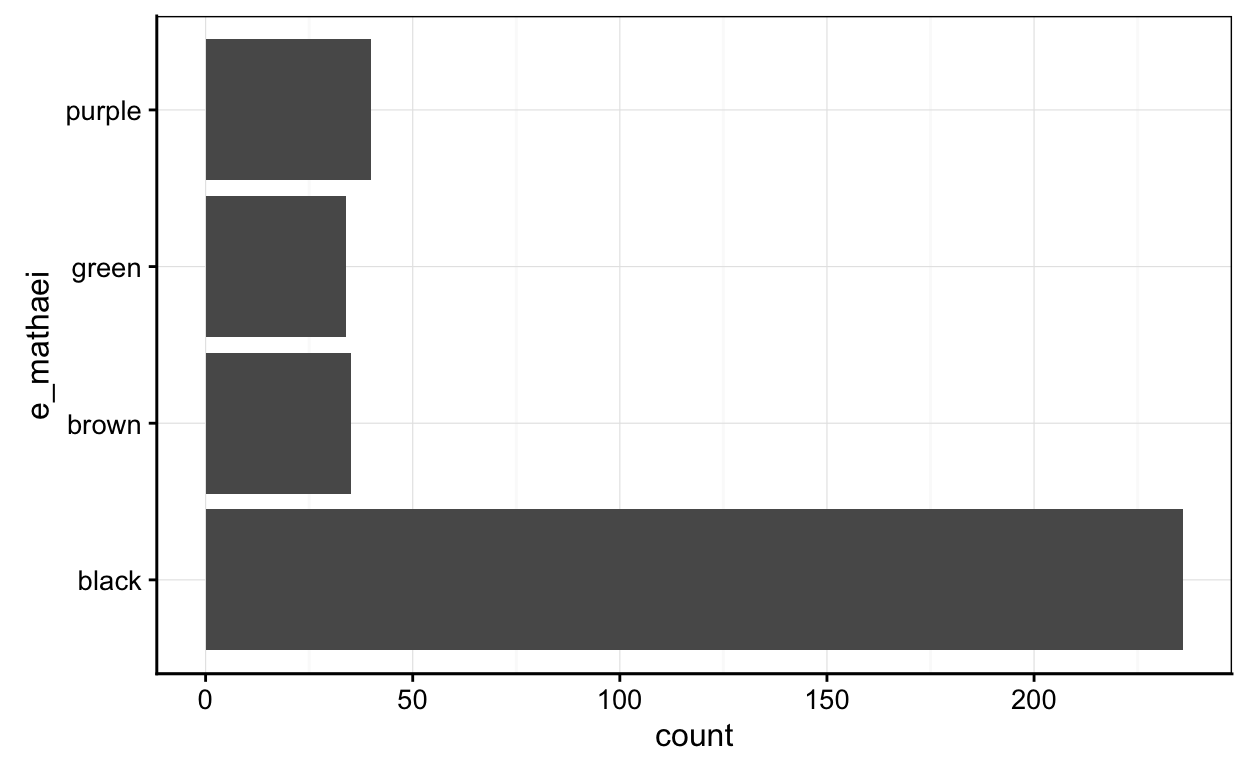
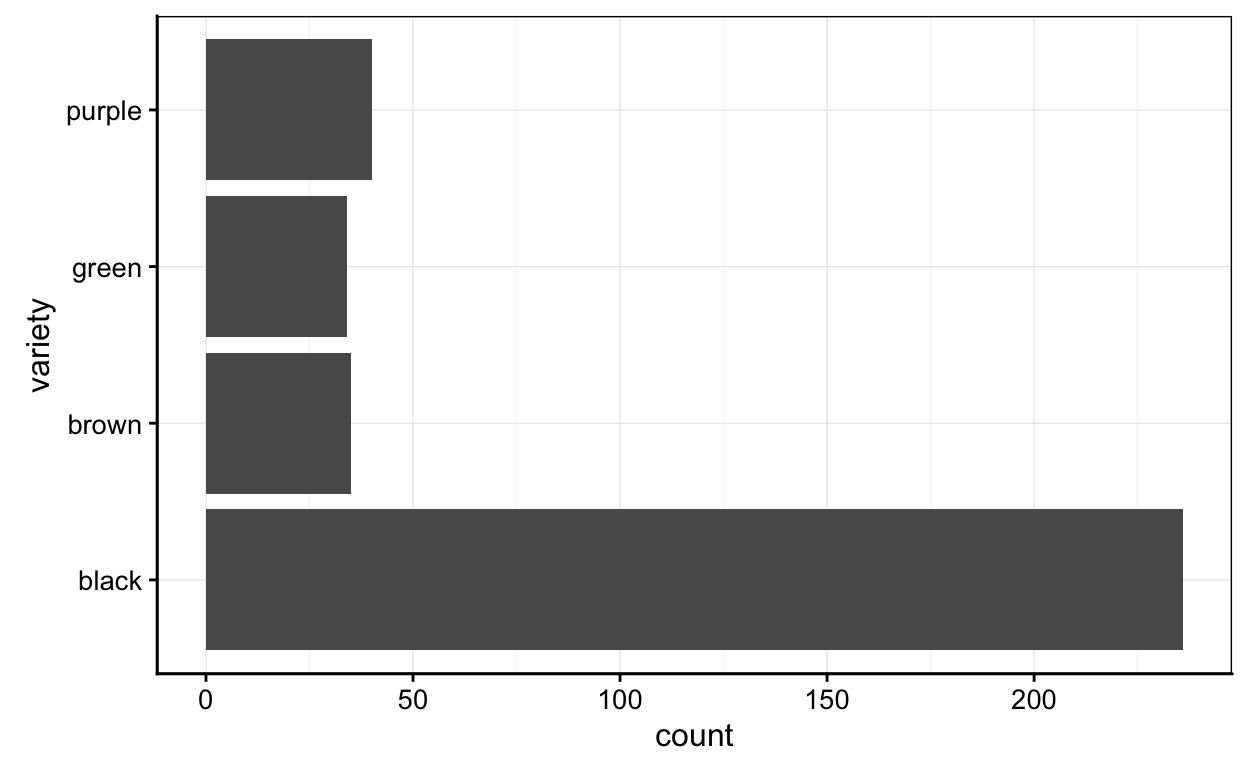
sdd1.04a and more robust record_sdd() function

diff --git a/inst/tutorials/04a_test/test.html b/inst/tutorials/04a_test/test.html
@@ -85,31 +85,31 @@ Réalisé par le service d'Écologie numérique des Milieux aquatiques, Universi
 </div>
 <div id="section-visualisation-graphique" class="section level2">
 <h2>Visualisation graphique</h2>
-<p>La visualisation graphique est le point de base dans l’analyse de données.</p>
+<p>La visualisation graphique est le point de départ dans l’analyse de données.</p>
 <div id="section-denombrement-doursins-perforant-dans-la-baie-de-tulear-madagascar" class="section level3">
 <h3>Dénombrement d’oursins perforant dans la baie de Tuléar (Madagascar)</h3>
-<p>La jeu de données nommé echinoderma est un recensement de différentes variétés d’ <em>Echinoderma mathaei</em>.</p>
-<pre class="r"><code>echinoderma &lt;- data_frame(id = 1:345, e_mathaei = c(rep(&quot;black&quot;, times = 236), 
-                                                    rep(&quot;purple&quot; , times = 40), 
-                                                    rep(&quot;brown&quot;, times = 35), 
-                                                    rep(&quot;green&quot;, times = 34)))
-# Visualisation partielle du tableau de données
-head(echinoderma[c(200, 250, 300, 340), ])</code></pre>
+<p>La jeu de données nommé <code>e_mathaei</code> est un recensement de différentes variétés de l’oursin <em>Echinometra mathaei</em>.</p>
+<pre class="r"><code>e_mathaei &lt;- data_frame(id = 1:345, variety = c(rep(&quot;black&quot;,  times = 236), 
+                                                rep(&quot;purple&quot;, times = 40), 
+                                                rep(&quot;brown&quot;,  times = 35), 
+                                                rep(&quot;green&quot;,  times = 34)))
+# Visualisation de quelques lignes du tableau de données
+e_mathaei[c(200, 250, 300, 340), ]</code></pre>
 <div data-pagedtable="false">
 <script data-pagedtable-source type="application/json">
-{"columns":[{"label":["id"],"name":[1],"type":["int"],"align":["right"]},{"label":["e_mathaei"],"name":[2],"type":["chr"],"align":["left"]}],"data":[{"1":"200","2":"black"},{"1":"250","2":"purple"},{"1":"300","2":"brown"},{"1":"340","2":"green"}],"options":{"columns":{"min":{},"max":[10]},"rows":{"min":[10],"max":[10]},"pages":{}}}
+{"columns":[{"label":["id"],"name":[1],"type":["int"],"align":["right"]},{"label":["variety"],"name":[2],"type":["chr"],"align":["left"]}],"data":[{"1":"200","2":"black"},{"1":"250","2":"purple"},{"1":"300","2":"brown"},{"1":"340","2":"green"}],"options":{"columns":{"min":{},"max":[10]},"rows":{"min":[10],"max":[10]},"pages":{}}}
   </script>
 </div>
 <p>Les scientifiques produisent le graphique suivant :</p>
 <p><img src="test_files/figure-html/unnamed-chunk-3-1.png" width="624" /></p>
 <p>Reproduisez le graphique ci-dessus.</p>
 <p><strong>Nom du jeu de données et des variables importantes</strong></p>
-<pre><code>[1] &quot;echinoderma&quot; &quot;e_mathaei&quot;  </code></pre>
+<pre><code>[1] &quot;variety&quot;   &quot;e_mathaei&quot;</code></pre>
 <div class="tutorial-exercise" data-label="bar1" data-caption="Code R" data-completion="1" data-diagnostics="1" data-startover="1" data-lines="0">
 <script type="application/json" data-opts-chunk="1">{"fig.width":6.5,"fig.height":4,"fig.retina":2,"fig.align":"default","fig.keep":"high","fig.show":"asis","out.width":624,"warning":true,"error":false,"message":true,"exercise.df_print":"paged","exercise.timelimit":60,"exercise.checker":["function (label, user_code, solution_code, check_code, envir_result, ","    evaluate_result, ...) ","{","    list(message = \"Your answer is recorded!\", correct = TRUE, ","        type = \"info\", location = \"append\")","}"]}</script>
 </div>
 <div class="tutorial-exercise-support" data-label="bar1-solution" data-caption="Code R" data-completion="1" data-diagnostics="1" data-startover="1" data-lines="0">
-<pre class="text"><code>chart(echinoderma, formula = ~ e_mathaei) +
+<pre class="text"><code>chart(e_mathaei, formula = ~ variety) +
   geom_bar() +
   coord_flip()</code></pre>
 </div>
@@ -120,42 +120,42 @@ head(echinoderma[c(200, 250, 300, 340), ])</code></pre>
 <p><img src="test_files/figure-html/unnamed-chunk-5-1.png" width="624" /></p>
 <p>Reproduisez ce graphique</p>
 <p><strong>Nom du jeu de données et des variables importantes</strong></p>
-<pre><code>[1] &quot;e_mathaei&quot;   &quot;echinoderma&quot;</code></pre>
+<pre><code>[1] &quot;e_mathaei&quot; &quot;variety&quot;  </code></pre>
 <div class="tutorial-exercise" data-label="pie1" data-caption="Code R" data-completion="1" data-diagnostics="1" data-startover="1" data-lines="0">
 <script type="application/json" data-opts-chunk="1">{"fig.width":6.5,"fig.height":4,"fig.retina":2,"fig.align":"default","fig.keep":"high","fig.show":"asis","out.width":624,"warning":true,"error":false,"message":true,"exercise.df_print":"paged","exercise.timelimit":60,"exercise.checker":["function (label, user_code, solution_code, check_code, envir_result, ","    evaluate_result, ...) ","{","    list(message = \"Your answer is recorded!\", correct = TRUE, ","        type = \"info\", location = \"append\")","}"]}</script>
 </div>
 <div class="tutorial-exercise-support" data-label="pie1-solution" data-caption="Code R" data-completion="1" data-diagnostics="1" data-startover="1" data-lines="0">
-<pre class="text"><code>chart(data = echinoderma, ~ factor(0) %fill=% e_mathaei) +
+<pre class="text"><code>chart(data = e_mathaei, ~ factor(0) %fill=% variety) +
   geom_bar(width = 1) + 
   coord_polar(&quot;y&quot;, start = 0) +
   theme_void() +
   scale_fill_viridis_d() +
-  labs( fill = expression(italic(&quot;Echinoderma mathaei&quot;)))</code></pre>
+  labs(fill = &quot;Variety&quot;)</code></pre>
 </div>
 <div class="tutorial-exercise-support" data-label="pie1-check" data-caption="Code R" data-completion="1" data-diagnostics="1" data-startover="1" data-lines="0">
 <pre class="text"><code># Not yet...</code></pre>
 </div>
-<p>Les chercheurs souhaitent en plus générer un graphique entierement en français.</p>
+<p>Les chercheurs souhaitent en plus générer un graphique entièrement en français.</p>
 <p><img src="test_files/figure-html/unnamed-chunk-7-1.png" width="624" /></p>
-<p>Reproduisez ce graphique</p>
+<p>Reproduisez ce graphique.</p>
 <p><strong>Nom du jeu de données et des variables importantes</strong></p>
-<pre><code>[1] &quot;echinoderma&quot; &quot;e_mathaei&quot;  </code></pre>
+<pre><code>[1] &quot;variety&quot;   &quot;e_mathaei&quot;</code></pre>
 <div class="tutorial-exercise" data-label="bar2" data-caption="Code R" data-completion="1" data-diagnostics="1" data-startover="1" data-lines="0">
 <script type="application/json" data-opts-chunk="1">{"fig.width":6.5,"fig.height":4,"fig.retina":2,"fig.align":"default","fig.keep":"high","fig.show":"asis","out.width":624,"warning":true,"error":false,"message":true,"exercise.df_print":"paged","exercise.timelimit":60,"exercise.checker":["function (label, user_code, solution_code, check_code, envir_result, ","    evaluate_result, ...) ","{","    list(message = \"Your answer is recorded!\", correct = TRUE, ","        type = \"info\", location = \"append\")","}"]}</script>
 </div>
 <div class="tutorial-exercise-support" data-label="bar2-solution" data-caption="Code R" data-completion="1" data-diagnostics="1" data-startover="1" data-lines="0">
-<pre class="text"><code>echinoderma$e_mathaei &lt;- factor(echinoderma$e_mathaei, levels = c(&quot;black&quot;, &quot;brown&quot;, &quot;green&quot;, &quot;purple&quot;), labels = c(&quot;Noir&quot;, &quot;Brun&quot;, &quot;Vert&quot;, &quot;Mauve&quot;))
+<pre class="text"><code>e_mathaei$variety &lt;- factor(e_mathaei$variety, levels = c(&quot;black&quot;, &quot;brown&quot;, &quot;green&quot;, &quot;purple&quot;), labels = c(&quot;Noir&quot;, &quot;Brun&quot;, &quot;Vert&quot;, &quot;Mauve&quot;))
 
-chart(echinoderma, formula = ~ e_mathaei) +
+chart(e_mathaei, formula = ~ variety) +
   geom_bar() +
-  labs(x = expression(italic(&quot;Echinoderma mathaei&quot;)), y  = &quot;Dénombrement&quot;)</code></pre>
+  labs(x = &quot;Variété&quot;, y  = &quot;Dénombrement&quot;)</code></pre>
 </div>
 <div class="tutorial-exercise-support" data-label="bar2-check" data-caption="Code R" data-completion="1" data-diagnostics="1" data-startover="1" data-lines="0">
 <pre class="text"><code># Not yet...</code></pre>
 </div>
 </div>
-<div id="section-biometrie-de-crabe" class="section level3">
-<h3>Biométrie de crabe</h3>
+<div id="section-biometrie-de-crabes" class="section level3">
+<h3>Biométrie de crabes</h3>
 <p>Des scientifiques étudient la biométrie de <em>Leptograpsus variegatus</em> et ont obtenu le tableau ci-dessous.</p>
 <pre class="r"><code>(crabs &lt;- read(&quot;crabs&quot;, package = &quot;MASS&quot;, lang = &quot;fr&quot;))</code></pre>
 <div data-pagedtable="false">
@@ -167,7 +167,7 @@ chart(echinoderma, formula = ~ e_mathaei) +
 <p><img src="test_files/figure-html/unnamed-chunk-9-1.png" width="624" /></p>
 <p>Reproduisez le graphique ci-dessus.</p>
 <p><strong>Nom du jeu de données et des variables importantes</strong></p>
-<pre><code>[1] &quot;length&quot;  &quot;width&quot;   &quot;shape&quot;   &quot;color&quot;   &quot;sex&quot;     &quot;crabs&quot;   &quot;species&quot;</code></pre>
+<pre><code>[1] &quot;crabs&quot;   &quot;length&quot;  &quot;color&quot;   &quot;species&quot; &quot;shape&quot;   &quot;width&quot;   &quot;sex&quot;    </code></pre>
 <div class="tutorial-exercise" data-label="point1" data-caption="Code R" data-completion="1" data-diagnostics="1" data-startover="1" data-lines="0">
 <script type="application/json" data-opts-chunk="1">{"fig.width":6.5,"fig.height":4,"fig.retina":2,"fig.align":"default","fig.keep":"high","fig.show":"asis","out.width":624,"warning":true,"error":false,"message":true,"exercise.df_print":"paged","exercise.timelimit":60,"exercise.checker":["function (label, user_code, solution_code, check_code, envir_result, ","    evaluate_result, ...) ","{","    list(message = \"Your answer is recorded!\", correct = TRUE, ","        type = \"info\", location = \"append\")","}"]}</script>
 </div>
@@ -182,12 +182,10 @@ chart(echinoderma, formula = ~ e_mathaei) +
 <p><img src="test_files/figure-html/unnamed-chunk-11-1.png" width="624" /></p>
 <p>Reproduisez le graphique ci-dessus.</p>
 <p><strong>Nom du jeu de données et des variables importantes</strong></p>
-<pre><code>[1] &quot;species&quot; &quot;sex&quot;     &quot;width&quot;   &quot;fill&quot;    &quot;crabs&quot;   &quot;length&quot; </code></pre>
-<div class="tutorial-exercise" data-label="boxplot1" data-caption="Code R" data-completion="1" data-diagnostics="1" data-startover="1" data-lines="0">
-<pre class="text"><code># fonction du dénombrement 
-give_n &lt;- function(x)
-  c(y = max(x) * 1.1, label = length(x)) 
-#réalisation du graphique</code></pre>
+<pre><code>[1] &quot;species&quot; &quot;fill&quot;    &quot;length&quot;  &quot;width&quot;   &quot;sex&quot;     &quot;crabs&quot;  </code></pre>
+<div class="tutorial-exercise" data-label="boxplot1" data-caption="Code R" data-completion="1" data-diagnostics="1" data-startover="1" data-lines="7">
+<pre class="text"><code>give_n &lt;- function(x)
+  c(y = max(x) * 1.1, label = length(x)) </code></pre>
 <script type="application/json" data-opts-chunk="1">{"fig.width":6.5,"fig.height":4,"fig.retina":2,"fig.align":"default","fig.keep":"high","fig.show":"asis","out.width":624,"warning":true,"error":false,"message":true,"exercise.df_print":"paged","exercise.timelimit":60,"exercise.checker":["function (label, user_code, solution_code, check_code, envir_result, ","    evaluate_result, ...) ","{","    list(message = \"Your answer is recorded!\", correct = TRUE, ","        type = \"info\", location = \"append\")","}"]}</script>
 </div>
 <div class="tutorial-exercise-support" data-label="boxplot1-solution" data-caption="Code R" data-completion="1" data-diagnostics="1" data-startover="1" data-lines="0">
@@ -202,9 +200,12 @@ chart(data = crabs, length ~ species %fill=% sex) +
 <div class="tutorial-exercise-support" data-label="boxplot1-check" data-caption="Code R" data-completion="1" data-diagnostics="1" data-startover="1" data-lines="0">
 <pre class="text"><code># Not yet...</code></pre>
 </div>
-<p>Les chercheurs proposent ce second graphique pour décire les données</p>
+<p>Les chercheurs proposent ensuite ce graphique pour décrire les données.</p>
 <pre><code>`stat_bin()` using `bins = 30`. Pick better value with `binwidth`.</code></pre>
 <p><img src="test_files/figure-html/unnamed-chunk-13-1.png" width="624" /></p>
+<p>Reproduisez le graphique ci-dessus.</p>
+<p><strong>Nom du jeu de données et des variables importantes</strong></p>
+<pre><code>[1] &quot;width&quot;   &quot;fill&quot;    &quot;length&quot;  &quot;crabs&quot;   &quot;sex&quot;     &quot;species&quot;</code></pre>
 <div class="tutorial-exercise" data-label="histo1" data-caption="Code R" data-completion="1" data-diagnostics="1" data-startover="1" data-lines="0">
 <script type="application/json" data-opts-chunk="1">{"fig.width":6.5,"fig.height":4,"fig.retina":2,"fig.align":"default","fig.keep":"high","fig.show":"asis","out.width":624,"warning":true,"error":false,"message":true,"exercise.df_print":"paged","exercise.timelimit":60,"exercise.checker":["function (label, user_code, solution_code, check_code, envir_result, ","    evaluate_result, ...) ","{","    list(message = \"Your answer is recorded!\", correct = TRUE, ","        type = \"info\", location = \"append\")","}"]}</script>
 </div>
@@ -215,13 +216,13 @@ chart(data = crabs, length ~ species %fill=% sex) +
 <div class="tutorial-exercise-support" data-label="histo1-check" data-caption="Code R" data-completion="1" data-diagnostics="1" data-startover="1" data-lines="0">
 <pre class="text"><code># Not yet...</code></pre>
 </div>
-<p>Les chercheurs ne sont cependant pas satisfait de ce graphique et réalisent la version suivante :</p>
+<p>Les chercheurs ne sont cependant pas satisfaits de ce graphique et réalisent la version suivante :</p>
 <pre><code>`stat_bin()` using `bins = 30`. Pick better value with `binwidth`.
 `stat_bin()` using `bins = 30`. Pick better value with `binwidth`.</code></pre>
-<p><img src="test_files/figure-html/unnamed-chunk-14-1.png" width="624" /></p>
+<p><img src="test_files/figure-html/unnamed-chunk-15-1.png" width="624" /></p>
 <p>Reproduisez le graphique ci-dessus.</p>
 <p><strong>Nom du jeu de données et des variables importantes</strong></p>
-<pre><code>[1] &quot;crabs&quot;   &quot;species&quot; &quot;length&quot;  &quot;sex&quot;     &quot;width&quot;   &quot;fill&quot;   </code></pre>
+<pre><code>[1] &quot;crabs&quot;   &quot;species&quot; &quot;length&quot;  &quot;sex&quot;     &quot;fill&quot;    &quot;width&quot;  </code></pre>
 <div class="tutorial-exercise" data-label="histo2" data-caption="Code R" data-completion="1" data-diagnostics="1" data-startover="1" data-lines="0">
 <script type="application/json" data-opts-chunk="1">{"fig.width":6.5,"fig.height":4,"fig.retina":2,"fig.align":"default","fig.keep":"high","fig.show":"asis","out.width":624,"warning":true,"error":false,"message":true,"exercise.df_print":"paged","exercise.timelimit":60,"exercise.checker":["function (label, user_code, solution_code, check_code, envir_result, ","    evaluate_result, ...) ","{","    list(message = \"Your answer is recorded!\", correct = TRUE, ","        type = \"info\", location = \"append\")","}"]}</script>
 </div>
@@ -237,9 +238,9 @@ chart(data = crabs, length ~ species %fill=% sex) +
 <pre class="text"><code># Not yet...</code></pre>
 </div>
 </div>
-<div id="section-transect-entre-nice-et-calvi" class="section level3">
-<h3>Transect entre Nice et Calvi</h3>
-<p>Les chercheurs réalisent un transect de la ville de Nice à la ville de Calvi. Ils vont donc réaliser des prélèvements en 68 stations entre ces deux villes.</p>
+<div id="section-transect-entre-nice-et-la-corse" class="section level3">
+<h3>Transect entre Nice et la Corse</h3>
+<p>Les chercheurs réalisent un transect dans la Mer Méditerranée depuis le port de Nice jusqu’à la baie de Calvi en Corse. Ils vont donc réaliser des prélèvements en 68 stations entre ces deux extrêmes.</p>
 <pre class="r"><code>(marphy &lt;- read(&quot;marphy&quot;, package = &quot;pastecs&quot;))</code></pre>
 <div data-pagedtable="false">
 <script data-pagedtable-source type="application/json">
@@ -248,15 +249,15 @@ chart(data = crabs, length ~ species %fill=% sex) +
 </div>
 <pre class="r"><code>marphy$Station &lt;- 1:68</code></pre>
 <p>Les chercheurs souhaitent tout d’abord représenter la température en fonction des stations.</p>
-<p><img src="test_files/figure-html/unnamed-chunk-16-1.png" width="624" /></p>
+<p><img src="test_files/figure-html/unnamed-chunk-17-1.png" width="624" /></p>
 <p>Reproduisez le graphique ci-dessus.</p>
 <p><strong>Nom du jeu de données et des variables importantes</strong></p>
-<pre><code>[1] &quot;Station&quot;     &quot;Temperature&quot; &quot;marphy&quot;     </code></pre>
+<pre><code>[1] &quot;Station&quot;     &quot;marphy&quot;      &quot;Temperature&quot;</code></pre>
 <div class="tutorial-exercise" data-label="line1" data-caption="Code R" data-completion="1" data-diagnostics="1" data-startover="1" data-lines="0">
 <script type="application/json" data-opts-chunk="1">{"fig.width":6.5,"fig.height":4,"fig.retina":2,"fig.align":"default","fig.keep":"high","fig.show":"asis","out.width":624,"warning":true,"error":false,"message":true,"exercise.df_print":"paged","exercise.timelimit":60,"exercise.checker":["function (label, user_code, solution_code, check_code, envir_result, ","    evaluate_result, ...) ","{","    list(message = \"Your answer is recorded!\", correct = TRUE, ","        type = \"info\", location = \"append\")","}"]}</script>
 </div>
 <div class="tutorial-exercise-support" data-label="line1-solution" data-caption="Code R" data-completion="1" data-diagnostics="1" data-startover="1" data-lines="0">
-<pre class="text"><code>chart(marphy, Temperature ~ Station ) +
+<pre class="text"><code>chart(marphy, Temperature ~ Station) +
   geom_line() +
   geom_point() +
   labs(y = &quot;Temperature [C°]&quot;)</code></pre>
@@ -265,15 +266,15 @@ chart(data = crabs, length ~ species %fill=% sex) +
 <pre class="text"><code># Not yet...</code></pre>
 </div>
 <p>Les chercheurs souhaitent ensuite représenter la salinté en fonction des stations.</p>
-<p><img src="test_files/figure-html/unnamed-chunk-18-1.png" width="624" /></p>
+<p><img src="test_files/figure-html/unnamed-chunk-19-1.png" width="624" /></p>
 <p>Reproduisez le graphique ci-dessus.</p>
 <p><strong>Nom du jeu de données et des variables importantes</strong></p>
-<pre><code>[1] &quot;Station&quot;  &quot;marphy&quot;   &quot;Salinity&quot;</code></pre>
+<pre><code>[1] &quot;Station&quot;  &quot;Salinity&quot; &quot;marphy&quot;  </code></pre>
 <div class="tutorial-exercise" data-label="line2" data-caption="Code R" data-completion="1" data-diagnostics="1" data-startover="1" data-lines="0">
 <script type="application/json" data-opts-chunk="1">{"fig.width":6.5,"fig.height":4,"fig.retina":2,"fig.align":"default","fig.keep":"high","fig.show":"asis","out.width":624,"warning":true,"error":false,"message":true,"exercise.df_print":"paged","exercise.timelimit":60,"exercise.checker":["function (label, user_code, solution_code, check_code, envir_result, ","    evaluate_result, ...) ","{","    list(message = \"Your answer is recorded!\", correct = TRUE, ","        type = \"info\", location = \"append\")","}"]}</script>
 </div>
 <div class="tutorial-exercise-support" data-label="line2-solution" data-caption="Code R" data-completion="1" data-diagnostics="1" data-startover="1" data-lines="0">
-<pre class="text"><code>chart(marphy, Salinity ~ Station ) +
+<pre class="text"><code>chart(marphy, Salinity ~ Station) +
   geom_line() +
   geom_point() +
   labs(y = &quot;Salinité&quot;)</code></pre>
@@ -281,26 +282,26 @@ chart(data = crabs, length ~ species %fill=% sex) +
 <div class="tutorial-exercise-support" data-label="line2-check" data-caption="Code R" data-completion="1" data-diagnostics="1" data-startover="1" data-lines="0">
 <pre class="text"><code># Not yet...</code></pre>
 </div>
-<p>Ils decident pour finir de représenter les deux graphiques ensembles.</p>
-<p><img src="test_files/figure-html/unnamed-chunk-20-1.png" width="624" /></p>
+<p>Ils decident pour finir de représenter les deux graphiques ensembles dans une figure composite.</p>
+<p><img src="test_files/figure-html/unnamed-chunk-21-1.png" width="624" /></p>
 <p>Reproduisez le graphique ci-dessus.</p>
 <p><strong>Nom du jeu de données et des variables importantes</strong></p>
-<pre><code>[1] &quot;marphy&quot;      &quot;Temperature&quot; &quot;Station&quot;     &quot;Salinity&quot;   </code></pre>
+<pre><code>[1] &quot;Station&quot;     &quot;marphy&quot;      &quot;Salinity&quot;    &quot;Temperature&quot;</code></pre>
 <div class="tutorial-exercise" data-label="comb1" data-caption="Code R" data-completion="1" data-diagnostics="1" data-startover="1" data-lines="0">
 <script type="application/json" data-opts-chunk="1">{"fig.width":6.5,"fig.height":4,"fig.retina":2,"fig.align":"default","fig.keep":"high","fig.show":"asis","out.width":624,"warning":true,"error":false,"message":true,"exercise.df_print":"paged","exercise.timelimit":60,"exercise.checker":["function (label, user_code, solution_code, check_code, envir_result, ","    evaluate_result, ...) ","{","    list(message = \"Your answer is recorded!\", correct = TRUE, ","        type = \"info\", location = \"append\")","}"]}</script>
 </div>
 <div class="tutorial-exercise-support" data-label="comb1-solution" data-caption="Code R" data-completion="1" data-diagnostics="1" data-startover="1" data-lines="0">
-<pre class="text"><code>a &lt;- chart(marphy, Temperature ~ Station ) +
+<pre class="text"><code>a &lt;- chart(marphy, Temperature ~ Station) +
   geom_line() +
   geom_point() +
   labs(y = &quot;Temperature [C°]&quot;)
 
-b &lt;- chart(marphy, Salinity ~ Station ) +
+b &lt;- chart(marphy, Salinity ~ Station) +
   geom_line() +
   geom_point() +
   labs(y = &quot;Salinité&quot;)
 
-combine_charts(list(a,b))</code></pre>
+combine_charts(list(a, b))</code></pre>
 </div>
 <div class="tutorial-exercise-support" data-label="comb1-check" data-caption="Code R" data-completion="1" data-diagnostics="1" data-startover="1" data-lines="0">
 <pre class="text"><code># Not yet...</code></pre>
@@ -318,27 +319,27 @@ combine_charts(list(a,b))</code></pre>
 <tr>
 <td>
 
-<div id="htmlwidget-58492b158215ddff5f6b" style="width:100%;height:auto;", class = "quiz html-widget">
+<div id="htmlwidget-39c81113f2ab594ff89e" style="width:100%;height:auto;", class = "quiz html-widget">
 <div class="panel panel-default">
 <div class="panel-body quizArea">
 </div>
 </div>
 </div>
 
-<script type="application/json" data-for="htmlwidget-58492b158215ddff5f6b">{"x":{"question":"Lorsque je souhaite représenter une variable numérique en fonction d&#39;une seconde variable numérique, j&#39;utilise","answers":[{"option":"un nuage de de points","correct":true,"message":null},{"option":"une boite de dispersion","correct":false,"message":null},{"option":"un diagramme en violon","correct":false,"message":null},{"option":"un graphique de densité","correct":false,"message":null}],"label":"quiz-1","skipStartButton":true,"perQuestionResponseAnswers":true,"perQuestionResponseMessaging":true,"preventUnanswered":true,"displayQuestionCount":false,"displayQuestionNumber":false,"disableRanking":true,"nextQuestionText":"","checkAnswerText":"Submit Answer","allowRetry":true,"randomSortAnswers":true,"json":{"info":{"name":"","main":""},"questions":[{"q":"Lorsque je souhaite représenter une variable numérique en fonction d&#39;une seconde variable numérique, j&#39;utilise","a":[{"option":"un nuage de de points","correct":true,"message":null},{"option":"une boite de dispersion","correct":false,"message":null},{"option":"un diagramme en violon","correct":false,"message":null},{"option":"un graphique de densité","correct":false,"message":null}],"correct":"Correct!","incorrect":"Incorrect."}]}},"evals":[],"jsHooks":[]}</script>
+<script type="application/json" data-for="htmlwidget-39c81113f2ab594ff89e">{"x":{"question":"Lorsque je souhaite représenter une variable numérique en fonction d&#39;une seconde variable numérique, j&#39;utilise","answers":[{"option":"un nuage de de points","correct":true,"message":null},{"option":"une boite de dispersion","correct":false,"message":null},{"option":"un diagramme en violon","correct":false,"message":null},{"option":"un graphique de densité","correct":false,"message":null}],"label":"quiz-1","skipStartButton":true,"perQuestionResponseAnswers":true,"perQuestionResponseMessaging":true,"preventUnanswered":true,"displayQuestionCount":false,"displayQuestionNumber":false,"disableRanking":true,"nextQuestionText":"","checkAnswerText":"Submit Answer","allowRetry":true,"randomSortAnswers":true,"json":{"info":{"name":"","main":""},"questions":[{"q":"Lorsque je souhaite représenter une variable numérique en fonction d&#39;une seconde variable numérique, j&#39;utilise","a":[{"option":"un nuage de de points","correct":true,"message":null},{"option":"une boite de dispersion","correct":false,"message":null},{"option":"un diagramme en violon","correct":false,"message":null},{"option":"un graphique de densité","correct":false,"message":null}],"correct":"Correct!","incorrect":"Incorrect."}]}},"evals":[],"jsHooks":[]}</script>
 </td>
 </tr>
 <tr>
 <td>
 
-<div id="htmlwidget-471b0932b3ac999de0d7" style="width:100%;height:auto;", class = "quiz html-widget">
+<div id="htmlwidget-9b9254304e1f6f5b88b7" style="width:100%;height:auto;", class = "quiz html-widget">
 <div class="panel panel-default">
 <div class="panel-body quizArea">
 </div>
 </div>
 </div>
 
-<script type="application/json" data-for="htmlwidget-471b0932b3ac999de0d7">{"x":{"question":"Lorsque je souhaite représenter une variable facteur et donc d&#39;en faire son dénombrement j&#39;utilise","answers":[{"option":"un graphique en barres","correct":true,"message":null},{"option":"un graphique en violon","correct":false,"message":null},{"option":"un graphique en camembert","correct":true,"message":null},{"option":"un graphique en nuage de points","correct":false,"message":null}],"label":"quiz-2","skipStartButton":true,"perQuestionResponseAnswers":true,"perQuestionResponseMessaging":true,"preventUnanswered":true,"displayQuestionCount":false,"displayQuestionNumber":false,"disableRanking":true,"nextQuestionText":"","checkAnswerText":"Submit Answer","allowRetry":true,"randomSortAnswers":true,"json":{"info":{"name":"","main":""},"questions":[{"q":"Lorsque je souhaite représenter une variable facteur et donc d&#39;en faire son dénombrement j&#39;utilise","a":[{"option":"un graphique en barres","correct":true,"message":null},{"option":"un graphique en violon","correct":false,"message":null},{"option":"un graphique en camembert","correct":true,"message":null},{"option":"un graphique en nuage de points","correct":false,"message":null}],"correct":"Correct!","incorrect":"Incorrect."}]}},"evals":[],"jsHooks":[]}</script>
+<script type="application/json" data-for="htmlwidget-9b9254304e1f6f5b88b7">{"x":{"question":"Lorsque je souhaite représenter une variable facteur et donc d&#39;en faire son dénombrement j&#39;utilise","answers":[{"option":"un graphique en barres","correct":true,"message":null},{"option":"un graphique en violon","correct":false,"message":null},{"option":"un graphique en camembert","correct":true,"message":null},{"option":"un graphique en nuage de points","correct":false,"message":null}],"label":"quiz-2","skipStartButton":true,"perQuestionResponseAnswers":true,"perQuestionResponseMessaging":true,"preventUnanswered":true,"displayQuestionCount":false,"displayQuestionNumber":false,"disableRanking":true,"nextQuestionText":"","checkAnswerText":"Submit Answer","allowRetry":true,"randomSortAnswers":true,"json":{"info":{"name":"","main":""},"questions":[{"q":"Lorsque je souhaite représenter une variable facteur et donc d&#39;en faire son dénombrement j&#39;utilise","a":[{"option":"un graphique en barres","correct":true,"message":null},{"option":"un graphique en violon","correct":false,"message":null},{"option":"un graphique en camembert","correct":true,"message":null},{"option":"un graphique en nuage de points","correct":false,"message":null}],"correct":"Correct!","incorrect":"Incorrect."}]}},"evals":[],"jsHooks":[]}</script>
 </td>
 </tr>
 </table>
@@ -352,53 +353,53 @@ combine_charts(list(a,b))</code></pre>
 <tr>
 <td>
 
-<div id="htmlwidget-779870d697cdd5aec8bb" style="width:100%;height:auto;", class = "quiz html-widget">
+<div id="htmlwidget-2039b37df373735ef416" style="width:100%;height:auto;", class = "quiz html-widget">
 <div class="panel panel-default">
 <div class="panel-body quizArea">
 </div>
 </div>
 </div>
 
-<script type="application/json" data-for="htmlwidget-779870d697cdd5aec8bb">{"x":{"question":"La boite de dispersion permet de résumer les données d&#39;une variable numérique, quels sont les descripteurs employés ?","answers":[{"option":"la médiane","correct":true,"message":null},{"option":"la moyenne","correct":false,"message":null},{"option":"l&#39;espace inter-quartile","correct":true,"message":null},{"option":"La valeur maximale et la valeur minimale","correct":true,"message":null},{"option":"écart-type","correct":false,"message":null}],"label":"quiz1-1","skipStartButton":true,"perQuestionResponseAnswers":true,"perQuestionResponseMessaging":true,"preventUnanswered":true,"displayQuestionCount":false,"displayQuestionNumber":false,"disableRanking":true,"nextQuestionText":"","checkAnswerText":"Submit Answer","allowRetry":true,"randomSortAnswers":true,"json":{"info":{"name":"","main":""},"questions":[{"q":"La boite de dispersion permet de résumer les données d&#39;une variable numérique, quels sont les descripteurs employés ?","a":[{"option":"la médiane","correct":true,"message":null},{"option":"la moyenne","correct":false,"message":null},{"option":"l&#39;espace inter-quartile","correct":true,"message":null},{"option":"La valeur maximale et la valeur minimale","correct":true,"message":null},{"option":"écart-type","correct":false,"message":null}],"correct":"Correct!","incorrect":"Incorrect."}]}},"evals":[],"jsHooks":[]}</script>
+<script type="application/json" data-for="htmlwidget-2039b37df373735ef416">{"x":{"question":"La boite de dispersion permet de résumer les données d&#39;une variable numérique, quels sont les descripteurs employés ?","answers":[{"option":"la médiane","correct":true,"message":null},{"option":"la moyenne","correct":false,"message":null},{"option":"l&#39;espace inter-quartile","correct":true,"message":null},{"option":"la valeur maximale et la valeur minimale","correct":true,"message":null},{"option":"l&#39;écart-type","correct":false,"message":null}],"label":"quiz1-1","skipStartButton":true,"perQuestionResponseAnswers":true,"perQuestionResponseMessaging":true,"preventUnanswered":true,"displayQuestionCount":false,"displayQuestionNumber":false,"disableRanking":true,"nextQuestionText":"","checkAnswerText":"Submit Answer","allowRetry":true,"randomSortAnswers":true,"json":{"info":{"name":"","main":""},"questions":[{"q":"La boite de dispersion permet de résumer les données d&#39;une variable numérique, quels sont les descripteurs employés ?","a":[{"option":"la médiane","correct":true,"message":null},{"option":"la moyenne","correct":false,"message":null},{"option":"l&#39;espace inter-quartile","correct":true,"message":null},{"option":"la valeur maximale et la valeur minimale","correct":true,"message":null},{"option":"l&#39;écart-type","correct":false,"message":null}],"correct":"Correct!","incorrect":"Incorrect."}]}},"evals":[],"jsHooks":[]}</script>
 </td>
 </tr>
 <tr>
 <td>
 
-<div id="htmlwidget-496863374baefef60aea" style="width:100%;height:auto;", class = "quiz html-widget">
+<div id="htmlwidget-2f530a66acefcde75dcb" style="width:100%;height:auto;", class = "quiz html-widget">
 <div class="panel panel-default">
 <div class="panel-body quizArea">
 </div>
 </div>
 </div>
 
-<script type="application/json" data-for="htmlwidget-496863374baefef60aea">{"x":{"question":"Sur base de la suite de nombre suivante : 0.1, 4.3, 9.4, 5, 4.9, 2.9, 3.8, 4.2 que veut la médiane ?","answers":[{"option":"4.25","correct":true,"message":null},{"option":"3.35","correct":false,"message":null},{"option":"4.95","correct":false,"message":null},{"option":"4.2","correct":false,"message":null},{"option":"4.3","correct":false,"message":null}],"label":"quiz1-2","skipStartButton":true,"perQuestionResponseAnswers":true,"perQuestionResponseMessaging":true,"preventUnanswered":true,"displayQuestionCount":false,"displayQuestionNumber":false,"disableRanking":true,"nextQuestionText":"","checkAnswerText":"Submit Answer","allowRetry":true,"randomSortAnswers":true,"json":{"info":{"name":"","main":""},"questions":[{"q":"Sur base de la suite de nombre suivante : 0.1, 4.3, 9.4, 5, 4.9, 2.9, 3.8, 4.2 que veut la médiane ?","a":[{"option":"4.25","correct":true,"message":null},{"option":"3.35","correct":false,"message":null},{"option":"4.95","correct":false,"message":null},{"option":"4.2","correct":false,"message":null},{"option":"4.3","correct":false,"message":null}],"correct":"Correct!","incorrect":"Incorrect."}]}},"evals":[],"jsHooks":[]}</script>
+<script type="application/json" data-for="htmlwidget-2f530a66acefcde75dcb">{"x":{"question":"Sur base de la suite de nombre suivante : 0.1, 4.3, 9.4, 5, 4.9, 2.9, 3.8, 4.2 que veut la médiane ?","answers":[{"option":"4.25","correct":true,"message":null},{"option":"3.35","correct":false,"message":null},{"option":"4.95","correct":false,"message":null},{"option":"4.2","correct":false,"message":null},{"option":"4.3","correct":false,"message":null}],"label":"quiz1-2","skipStartButton":true,"perQuestionResponseAnswers":true,"perQuestionResponseMessaging":true,"preventUnanswered":true,"displayQuestionCount":false,"displayQuestionNumber":false,"disableRanking":true,"nextQuestionText":"","checkAnswerText":"Submit Answer","allowRetry":true,"randomSortAnswers":true,"json":{"info":{"name":"","main":""},"questions":[{"q":"Sur base de la suite de nombre suivante : 0.1, 4.3, 9.4, 5, 4.9, 2.9, 3.8, 4.2 que veut la médiane ?","a":[{"option":"4.25","correct":true,"message":null},{"option":"3.35","correct":false,"message":null},{"option":"4.95","correct":false,"message":null},{"option":"4.2","correct":false,"message":null},{"option":"4.3","correct":false,"message":null}],"correct":"Correct!","incorrect":"Incorrect."}]}},"evals":[],"jsHooks":[]}</script>
 </td>
 </tr>
 <tr>
 <td>
 
-<div id="htmlwidget-42ddeec0bf0b58b8daf9" style="width:100%;height:auto;", class = "quiz html-widget">
+<div id="htmlwidget-bfae3d1e877626f326c4" style="width:100%;height:auto;", class = "quiz html-widget">
 <div class="panel panel-default">
 <div class="panel-body quizArea">
 </div>
 </div>
 </div>
 
-<script type="application/json" data-for="htmlwidget-42ddeec0bf0b58b8daf9">{"x":{"question":"Sur base de la suite de nombre suivante : 0.1, 4.3, 9.4, 5, 4.9, 2.9, 3.8, 4.2 que veut le premier quartile ?","answers":[{"option":"4.25","correct":false,"message":null},{"option":"3.35","correct":true,"message":null},{"option":"4.95","correct":false,"message":null},{"option":"3.8","correct":false,"message":null},{"option":"2.9","correct":false,"message":null}],"label":"quiz1-3","skipStartButton":true,"perQuestionResponseAnswers":true,"perQuestionResponseMessaging":true,"preventUnanswered":true,"displayQuestionCount":false,"displayQuestionNumber":false,"disableRanking":true,"nextQuestionText":"","checkAnswerText":"Submit Answer","allowRetry":true,"randomSortAnswers":true,"json":{"info":{"name":"","main":""},"questions":[{"q":"Sur base de la suite de nombre suivante : 0.1, 4.3, 9.4, 5, 4.9, 2.9, 3.8, 4.2 que veut le premier quartile ?","a":[{"option":"4.25","correct":false,"message":null},{"option":"3.35","correct":true,"message":null},{"option":"4.95","correct":false,"message":null},{"option":"3.8","correct":false,"message":null},{"option":"2.9","correct":false,"message":null}],"correct":"Correct!","incorrect":"Incorrect."}]}},"evals":[],"jsHooks":[]}</script>
+<script type="application/json" data-for="htmlwidget-bfae3d1e877626f326c4">{"x":{"question":"Sur base de la suite de nombre suivante : 0.1, 4.3, 9.4, 5, 4.9, 2.9, 3.8, 4.2 que veut le premier quartile ?","answers":[{"option":"4.25","correct":false,"message":null},{"option":"3.35","correct":true,"message":null},{"option":"4.95","correct":false,"message":null},{"option":"3.8","correct":false,"message":null},{"option":"2.9","correct":false,"message":null}],"label":"quiz1-3","skipStartButton":true,"perQuestionResponseAnswers":true,"perQuestionResponseMessaging":true,"preventUnanswered":true,"displayQuestionCount":false,"displayQuestionNumber":false,"disableRanking":true,"nextQuestionText":"","checkAnswerText":"Submit Answer","allowRetry":true,"randomSortAnswers":true,"json":{"info":{"name":"","main":""},"questions":[{"q":"Sur base de la suite de nombre suivante : 0.1, 4.3, 9.4, 5, 4.9, 2.9, 3.8, 4.2 que veut le premier quartile ?","a":[{"option":"4.25","correct":false,"message":null},{"option":"3.35","correct":true,"message":null},{"option":"4.95","correct":false,"message":null},{"option":"3.8","correct":false,"message":null},{"option":"2.9","correct":false,"message":null}],"correct":"Correct!","incorrect":"Incorrect."}]}},"evals":[],"jsHooks":[]}</script>
 </td>
 </tr>
 <tr>
 <td>
 
-<div id="htmlwidget-2a70a4f701016402f73b" style="width:100%;height:auto;", class = "quiz html-widget">
+<div id="htmlwidget-dd0ca3a5f8bba90207eb" style="width:100%;height:auto;", class = "quiz html-widget">
 <div class="panel panel-default">
 <div class="panel-body quizArea">
 </div>
 </div>
 </div>
 
-<script type="application/json" data-for="htmlwidget-2a70a4f701016402f73b">{"x":{"question":"Sur base de la suite de nombre suivante : 0.1, 4.3, 9.4, 5, 4.9, 2.9, 3.8, 4.2 que veut le troisième quartile ?","answers":[{"option":"4.95","correct":true,"message":null},{"option":"3.35","correct":false,"message":null},{"option":"4.95","correct":false,"message":null},{"option":"3.8","correct":false,"message":null},{"option":"2.9","correct":false,"message":null}],"label":"quiz1-4","skipStartButton":true,"perQuestionResponseAnswers":true,"perQuestionResponseMessaging":true,"preventUnanswered":true,"displayQuestionCount":false,"displayQuestionNumber":false,"disableRanking":true,"nextQuestionText":"","checkAnswerText":"Submit Answer","allowRetry":true,"randomSortAnswers":true,"json":{"info":{"name":"","main":""},"questions":[{"q":"Sur base de la suite de nombre suivante : 0.1, 4.3, 9.4, 5, 4.9, 2.9, 3.8, 4.2 que veut le troisième quartile ?","a":[{"option":"4.95","correct":true,"message":null},{"option":"3.35","correct":false,"message":null},{"option":"4.95","correct":false,"message":null},{"option":"3.8","correct":false,"message":null},{"option":"2.9","correct":false,"message":null}],"correct":"Correct!","incorrect":"Incorrect."}]}},"evals":[],"jsHooks":[]}</script>
+<script type="application/json" data-for="htmlwidget-dd0ca3a5f8bba90207eb">{"x":{"question":"Sur base de la suite de nombre suivante : 0.1, 4.3, 9.4, 5, 4.9, 2.9, 3.8, 4.2 que veut le troisième quartile ?","answers":[{"option":"4.95","correct":true,"message":null},{"option":"3.35","correct":false,"message":null},{"option":"4.95","correct":false,"message":null},{"option":"3.8","correct":false,"message":null},{"option":"2.9","correct":false,"message":null}],"label":"quiz1-4","skipStartButton":true,"perQuestionResponseAnswers":true,"perQuestionResponseMessaging":true,"preventUnanswered":true,"displayQuestionCount":false,"displayQuestionNumber":false,"disableRanking":true,"nextQuestionText":"","checkAnswerText":"Submit Answer","allowRetry":true,"randomSortAnswers":true,"json":{"info":{"name":"","main":""},"questions":[{"q":"Sur base de la suite de nombre suivante : 0.1, 4.3, 9.4, 5, 4.9, 2.9, 3.8, 4.2 que veut le troisième quartile ?","a":[{"option":"4.95","correct":true,"message":null},{"option":"3.35","correct":false,"message":null},{"option":"4.95","correct":false,"message":null},{"option":"3.8","correct":false,"message":null},{"option":"2.9","correct":false,"message":null}],"correct":"Correct!","incorrect":"Incorrect."}]}},"evals":[],"jsHooks":[]}</script>
 </td>
 </tr>
 </table>
@@ -407,7 +408,7 @@ combine_charts(list(a,b))</code></pre>
 </div>
 <div id="section-conclusion" class="section level2">
 <h2>Conclusion</h2>
-<p>Bravo! Vous venez de terminer votre séance d’exercie dans un tutoriel “learnr”.</p>
+<p>Bravo! Vous venez de terminer votre séance d’exercices dans un tutoriel “learnr”.</p>
 <p>Laissez nous vos impressions sur cet outil pédagogique ou expérimentez encore dans la zone ci-dessous. Rappelez-vous que pour placer un commentaire dans une zone de code R, vous devez utilisez un dièse (<code>#</code>) devant vos phrases.</p>
 <div class="tutorial-exercise" data-label="comm" data-caption="Code R" data-completion="1" data-diagnostics="1" data-startover="1" data-lines="8">
 <pre class="text"><code># Ajout de commentaires 
@@ -433,14 +434,14 @@ library(BioDataScience)
 library(ggridges)
 
 # Dataset
-echinoderma <- data_frame(id = 1:345, e_mathaei = c(rep("black", times = 236), rep("purple" , times = 40), rep("brown", times = 35), rep("green", times = 34)))
+e_mathaei <- data_frame(id = 1:345, variety = c(rep("black", times = 236), rep("purple" , times = 40), rep("brown", times = 35), rep("green", times = 34)))
 marphy <- read("marphy", package = "pastecs", lang = "fr")
 marphy$Station <- 1:68
 crabs <- read("crabs", package = "MASS", lang = "fr")
 </script>
  
 <script type="application/shiny-prerendered" data-context="server">
-learnr:::register_http_handlers(session, metadata = list(id = "sdd1.04a", version = "0.0.0.900"))
+learnr:::register_http_handlers(session, metadata = list(id = "sdd1.04a", version = "1.0.0"))
 </script>
  
 <script type="application/shiny-prerendered" data-context="server">

diff --git a/NEWS.md b/NEWS.md
@@ -1,12 +1,23 @@
 # BioDataScience News
 
+## Changes in version 0.7.0
+
+- Tutorial 04a_test finalized
+
+
+## Changes in version 0.6.1
+
+- More robust code for record_sdd()
+
+
 ## Changes in version 0.6.0
 
 - Tutorial 03a_test finalized
 
+
 ## Changes in version 0.5.0
 
-- add new datasest biometry
+- Add new dataset biometry
 
 
 ## Changes in version 0.4.0
